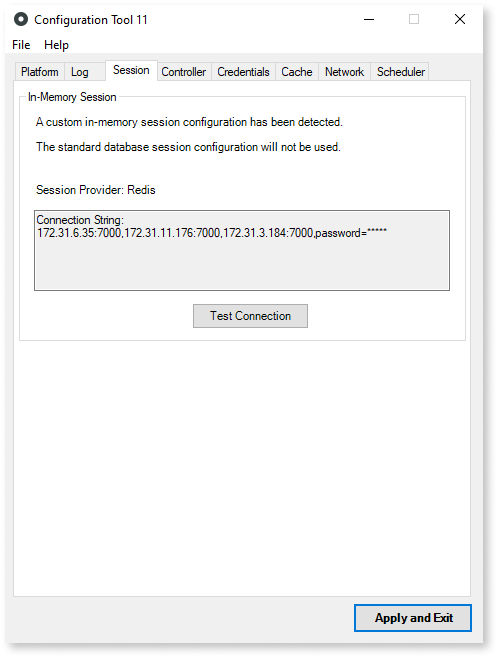
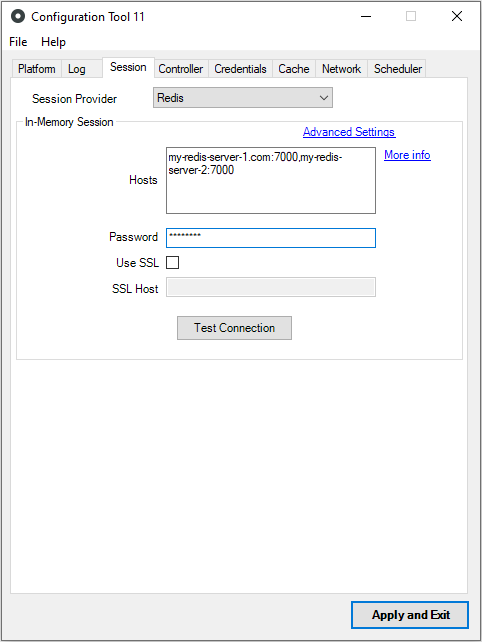
R11BRT-896 - Update redis setup TK-12624 (#80)
* update configuration tool screenshot

* update configuration tool instructions

* Update setup-platform-server-redis.md

* Update setup-platform-server-redis.md

Made some edits

---------

diff --git a/src/infrastructure/redis-in-memory-sessions/setup-platform-server-redis.md b/src/infrastructure/redis-in-memory-sessions/setup-platform-server-redis.md
@@ -26,31 +26,17 @@ This article assumes that you have a Redis Cluster with three server machines, a
 After making sure that you have a working Redis infrastructure, configure the OutSystems front-end servers of your OutSystems environment for in-memory session storage using Redis.
 
 Do the following:
-
-1. On each front-end server, edit the `server.hsconf` file and add the following XML content:
-
-        <InMemorySessionConfiguration ProviderKey="Redis">
-            <ConnectionString encrypted="false">172.31.6.35:7000,172.31.11.176:7000,172.31.3.184:7000,password=[ACCESSKEY]
-            </ConnectionString>
-        </InMemorySessionConfiguration>
-
-    In the `ConnectionString` element, enter the addresses and ports of all Redis Master processes in the Redis Cluster, separated by commas. If you have just one server running `redis-server`, enter its address and port.
-
-    Also in the `ConnectionString` element, replace `[ACCESSKEY]` with the password that you set in the Redis configuration file.
-
-    <div class="info" markdown="1">
-
-    The Redis password is **required** in Configuration Tool, which doesn't accept Redis connection strings without a password.
-
-    </div>
-
-1. Run Configuration Tool as an Administrator and open the **Session** tab.
+1. Run Configuration Tool as an Administrator, open the **Session** tab, and then select Redis from  the **Session Provider** dropdown.
 
     ![Session tab in Configuration Tool displaying Redis settings](images/session-connection-string-0-ct.png)
 
-    Configuration Tool displays the connection string you configured in the previous step.
+    In the **Hosts** element, enter the addresses and ports of all Redis Master processes in the Redis Cluster, separated by commas. If you have just one server running redis-server, enter its address and port.
 
-1. Click **Test Connection** to verify that the Redis server machines are reachable from the Platform Server machine and that everything works properly at runtime.
+    In the **Password** element, enter the password for the Redis Master or the single redis-server.
+
+    Optionally, tick the **Use SSL** element to enable SSL configuration. If necessary, enter  the **SSL Host** element. For more information about SSL refer to [Enable SSL for Redis](setup-enable-ssl.md). 
+
+1. To verify that the Redis server machines are reachable from the Platform Server machine and that everything works properly at runtime, Click **Test Connection**.
 
     ![Session tab in Configuration Tool after a successful connection test](images/session-connection-string-success-ct.png)
 
@@ -58,7 +44,7 @@ Do the following:
 
 1. If the connection test is successful, click **Apply and Exit**.
 
-1. Configuration Tool displays a popup  asking you to publish the latest version of Service Center and System Components. Accept by clicking **OK**.
+1. If the Configuration Tool displays a popup asking you to publish the latest version of Service Center and System Components. click **OK** to accept.
 
     If you're configuring an existing installation, republish all modules so that they use Redis sessions.
 
@@ -66,7 +52,7 @@ Your front-end server is now configured to store sessions in Redis.
 
 ## Testing your configuration
 
-When the Service Center installation finishes, test if the sessions are being saved in Redis by doing the following:
+When the Service Center installation finishes, test to verify the sessions are being saved in Redis by doing the following:
 
 1. Log in to Service Center and perform some browsing in Service Center's UI.
 
@@ -74,7 +60,7 @@ When the Service Center installation finishes, test if the sessions are being sa
 
         redis-cli -c -h 172.31.6.35 -p 7000 -a [ACCESSKEY]
 
-    Alternatively, if you have a single machine running Redis Server, open an SSH connection to your Redis server machine and run the following command:
+    Alternatively, if you have a single machine running the Redis Server, open an SSH connection to your Redis server machine and run the following command:
 
         redis-cli -h 127.0.0.1 -p 7000 -a [ACCESSKEY]
 
